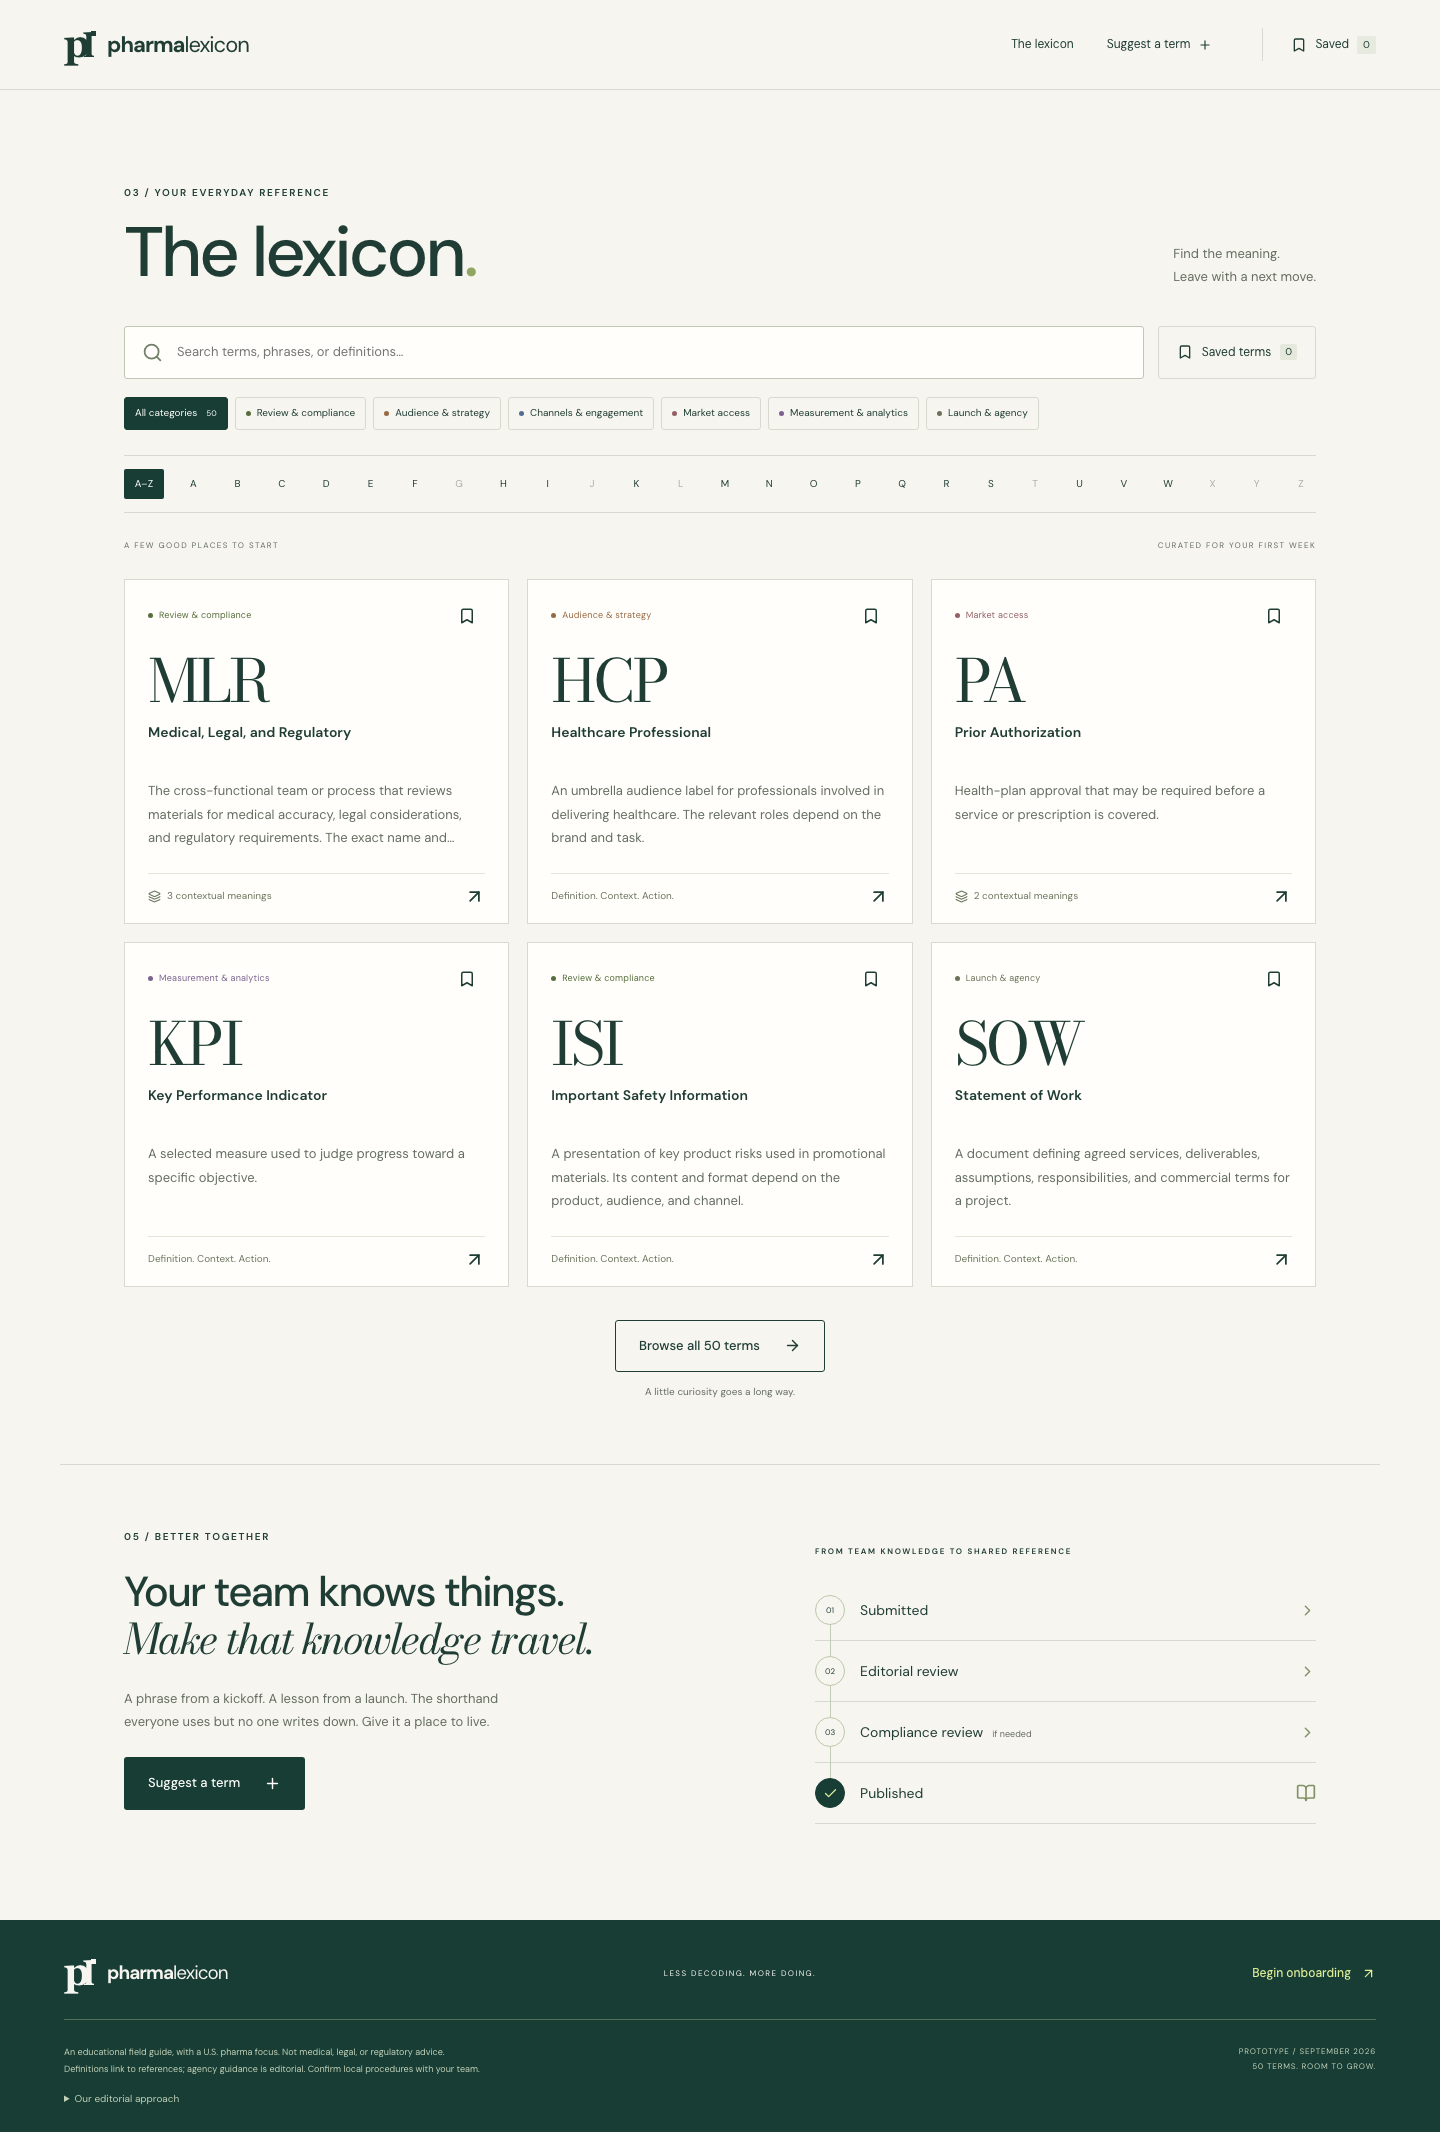
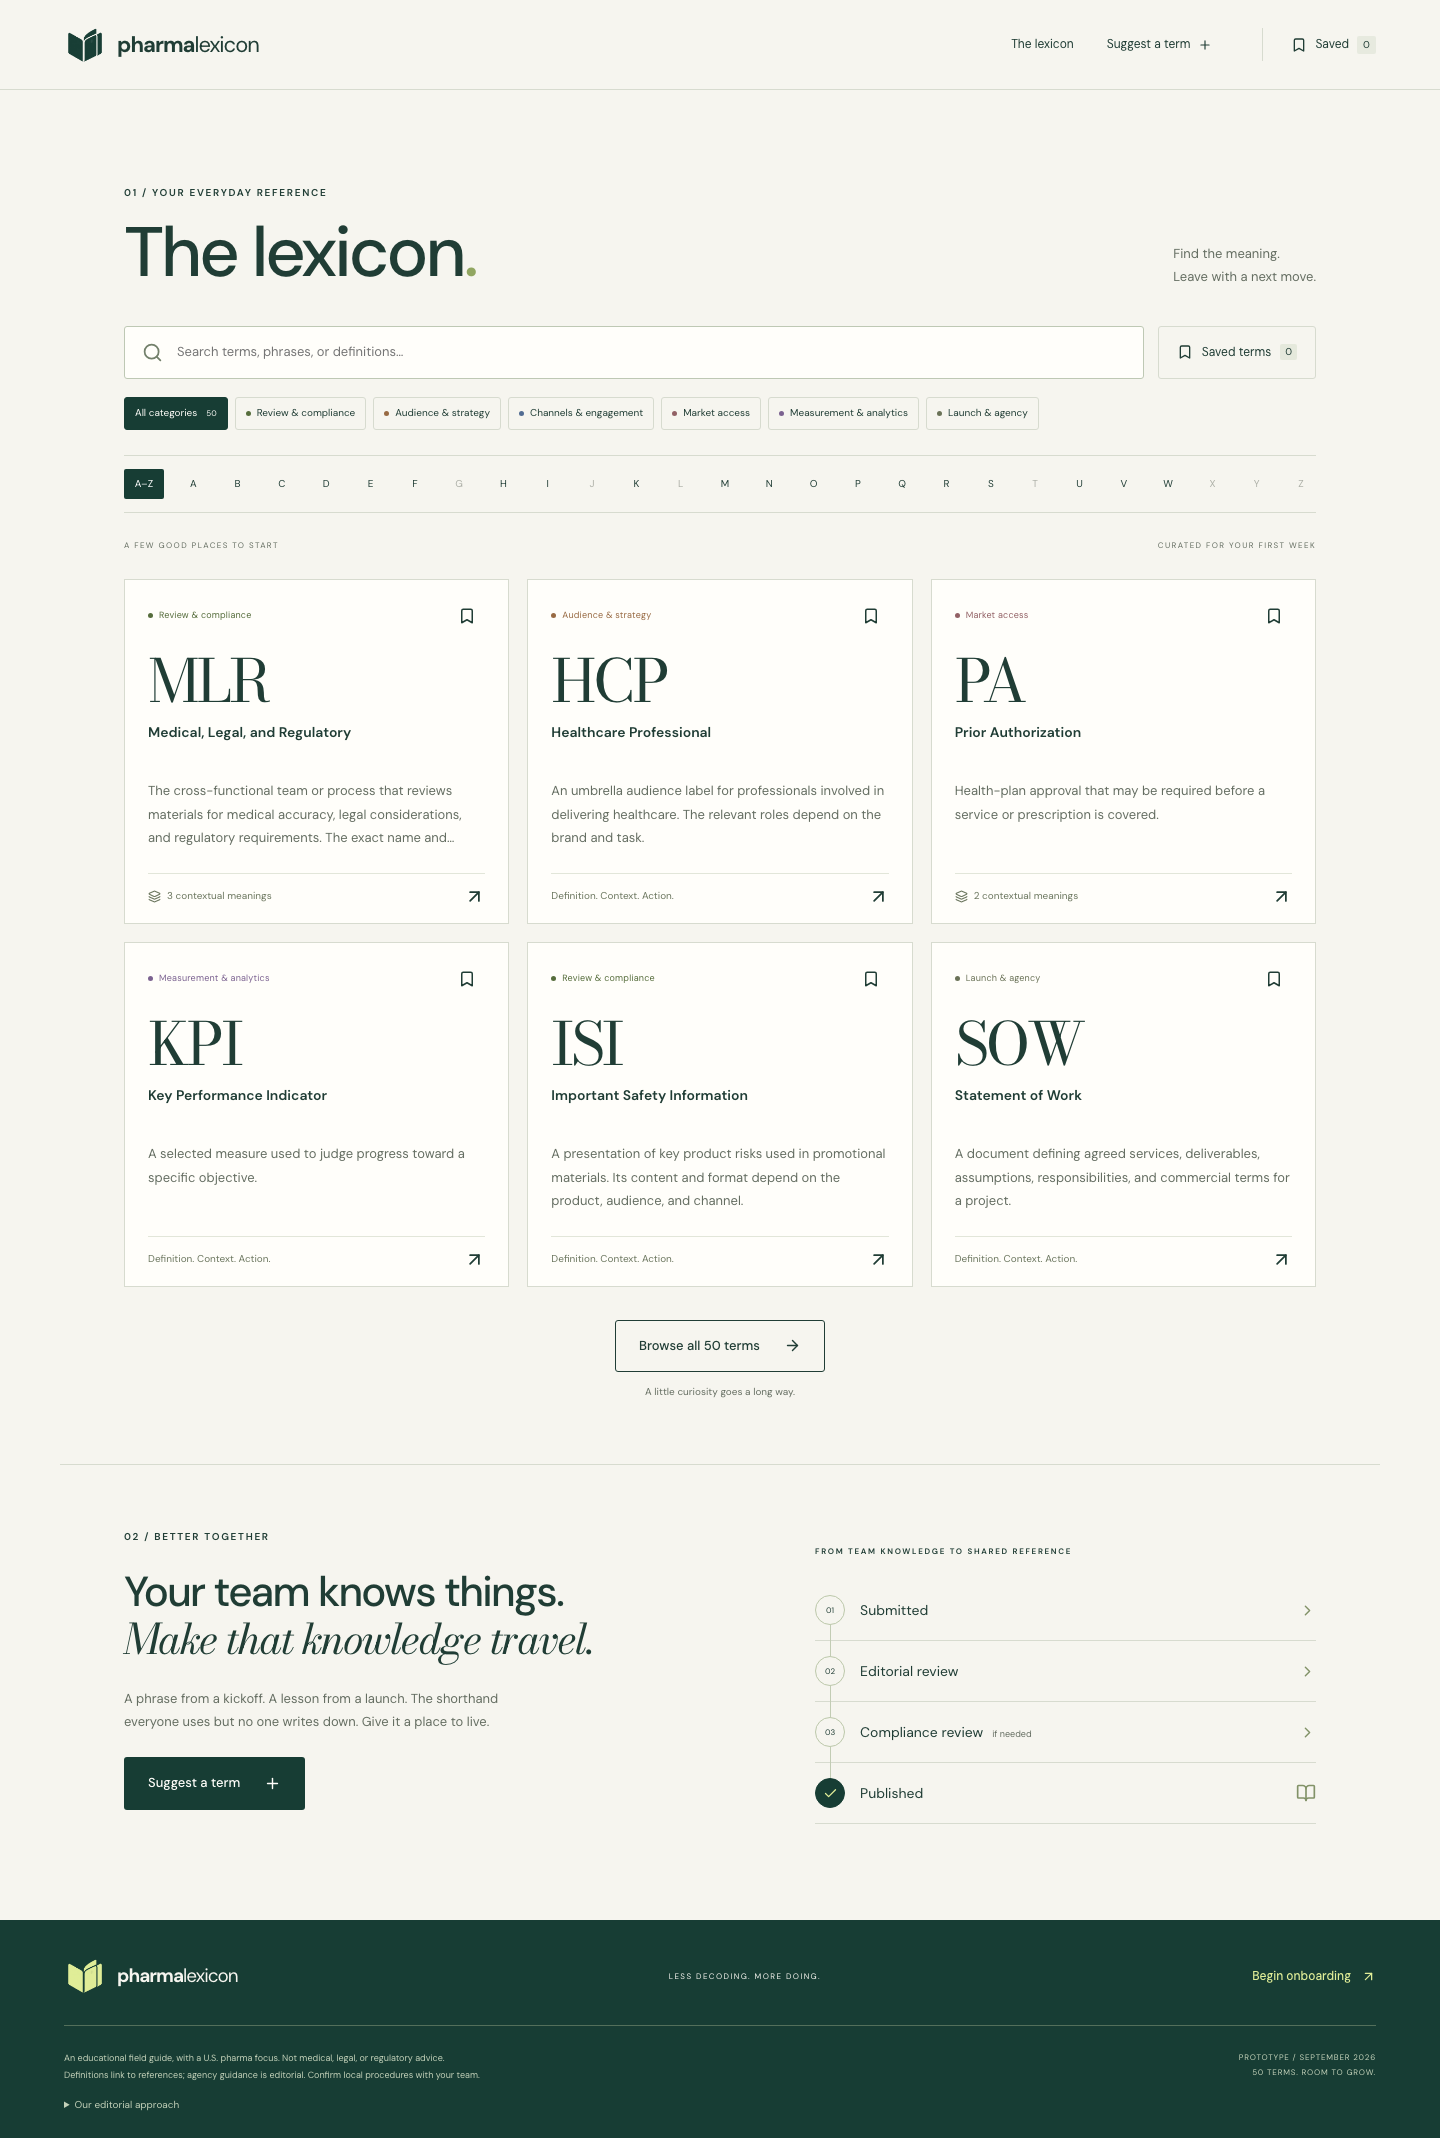
Refresh Pharma Lexicon brand with generated reference symbol

diff --git a/src/App.tsx b/src/App.tsx
@@ -135,10 +135,7 @@ function App() {
       </a>
       <header className="site-header">
         <a className="brand" href="#" aria-label="Pharma Lexicon home">
-          <span className="brand-mark">
-            p<span>l</span>
-            <i />
-          </span>
+          <span className="brand-mark" aria-hidden="true" />
           <span>
             pharma<span className="brand-light">lexicon</span>
           </span>
@@ -183,7 +180,7 @@ function App() {
         <section id="lexicon" className="lexicon section-shell">
           <div className="lexicon-heading">
             <div>
-              <span className="eyebrow">03 / YOUR EVERYDAY REFERENCE</span>
+              <span className="eyebrow">01 / YOUR EVERYDAY REFERENCE</span>
               <h1>
                 The lexicon<span className="title-dot">.</span>
               </h1>
@@ -385,7 +382,7 @@ function App() {
         </section>
         <section id="contribute" className="contribute section-shell">
           <div>
-            <span className="eyebrow">05 / BETTER TOGETHER</span>
+            <span className="eyebrow">02 / BETTER TOGETHER</span>
             <h2>
               Your team knows things.
               <br />
@@ -435,11 +432,8 @@ function App() {
       <div className="footer-surface">
         <footer className="site-footer" id="editorial-policy">
           <div className="footer-top">
-            <a className="brand" href="#">
-              <span className="brand-mark">
-                p<span>l</span>
-                <i />
-              </span>
+            <a className="brand" href="#" aria-label="Pharma Lexicon home">
+              <span className="brand-mark" aria-hidden="true" />
               <span>
                 pharma<span className="brand-light">lexicon</span>
               </span>

diff --git a/src/styles.css b/src/styles.css
@@ -246,26 +246,14 @@ button {
   font-weight: 400;
 }
 .brand-mark {
-  position: relative;
-  font-family: Georgia, serif;
-  font-size: 40px;
-  font-weight: 700;
-  line-height: 0.8;
   display: block;
-  width: 32px;
-  height: 36px;
-  letter-spacing: -7px;
-}
-.brand-mark > span {
-  font-size: 33px;
-}
-.brand-mark i {
-  position: absolute;
-  background: var(--ink);
-  width: 5px;
-  height: 5px;
-  right: 0;
-  top: 4px;
+  width: 42px;
+  height: 42px;
+  flex-shrink: 0;
+  background: var(--forest);
+  mask: url("/brand/pharma-lexicon-symbol.png") center / contain no-repeat;
+  -webkit-mask: url("/brand/pharma-lexicon-symbol.png") center / contain
+    no-repeat;
 }
 .site-header nav {
   display: flex;
@@ -2616,8 +2604,8 @@ button {
   background: var(--forest);
   color: var(--paper);
 }
-.footer-surface .brand-mark i {
-  background: var(--paper);
+.footer-surface .brand-mark {
+  background: var(--citron);
 }
 .footer-surface .footer-top {
   border-color: #536f5a;
@@ -2634,4 +2622,14 @@ button {
 }
 .footer-surface :focus-visible {
   outline-color: var(--citron);
+}
+
+@media (max-width: 760px) {
+  .brand {
+    gap: 7px;
+  }
+  .brand-mark {
+    width: 36px;
+    height: 36px;
+  }
 }

diff --git a/index.html b/index.html
@@ -19,7 +19,7 @@
     <meta property="og:type" content="website" />
     <meta property="og:image" content="/social.png" />
     <meta name="twitter:card" content="summary_large_image" />
-    <link rel="icon" type="image/svg+xml" href="/favicon.svg" />
+    <link rel="icon" type="image/png" href="/brand/pharma-lexicon-symbol.png" />
     <title>Pharma Lexicon — A field guide for agency minds</title>
   </head>
   <body>

diff --git a/public/brand/README.md b/public/brand/README.md
@@ -1,0 +1,13 @@
+# Pharma Lexicon brand symbol
+
+Created with the built-in image generation tool on October 5, 2026. The transparent PNG is the actual generated artwork, not a hand-coded recreation. Header and footer use its alpha channel as a CSS mask so the silhouette is identical in forest green and citron. The product name remains live text. The same PNG is used as the favicon.
+
+## Generation prompt
+
+```text
+Use case: logo-brand.
+Asset type: final standalone brand symbol for the navigation and footer of Pharma Lexicon, an editorial educational field guide for pharmaceutical agency teams.
+Create one distinctive, modern, confidently minimal brand symbol: an abstract open index / unfolding reference pages, made from two or three bold geometric planes with a precise central negative-space opening. Suggest clarity, knowledge, and decoding language. A memorable compact silhouette, beautifully balanced and slightly asymmetric, with the confidence of a premium editorial imprint. Designed to remain crisp and recognizable at 32 pixels.
+Style: flat vector-like graphic with exceptionally clean edges, solid fills, deliberate negative space. Single ink color deep forest green #173D34. Transparent background, actual alpha. Center a single square-proportioned symbol, occupying roughly 85 percent of a square canvas, with equal modest clear space.
+No words or letters: the name Pharma Lexicon will be typeset separately in the interface. No P or L monogram, no overlapping initials, no medical cross, pills, molecule, DNA, leaves, starbursts, gradients, shadows, texture, 3D, mockup, border, or watermark. Only one finished symbol, not a sheet of concepts.
+```

diff --git a/README.md b/README.md
@@ -29,7 +29,7 @@ pnpm preview
 
 ## Product and design
 
-Warm paper, forest green, and restrained citron give the library an editorial identity. Self-hosted DM Sans supports reading; Bodoni Moda creates distinct acronym and headline moments. The visuals are code-native typography and lines, with no stock photos or image dependencies.
+Warm paper, forest green, and restrained citron give the library an editorial identity. Self-hosted DM Sans supports reading; Bodoni Moda creates distinct acronym and headline moments. The visual system uses typography and lines, plus an image-generated open-reference brand symbol. The original transparent asset is stored at `public/brand/pharma-lexicon-symbol.png` and rendered as an alpha mask in forest green (header) and citron (footer). The product name remains live text for legibility and accessibility. See `public/brand/README.md` for the generation prompt.
 
 The simplified page starts directly with the lexicon beneath navigation, followed by the contribution section and a deep-green footer. The hero, audience strip, problem statement, storytelling, context note, learning-path cards, and product-vision sections have been removed. The glossary layout and capabilities are unchanged. Reduced-motion preferences disable transitions and smooth scrolling.
 
